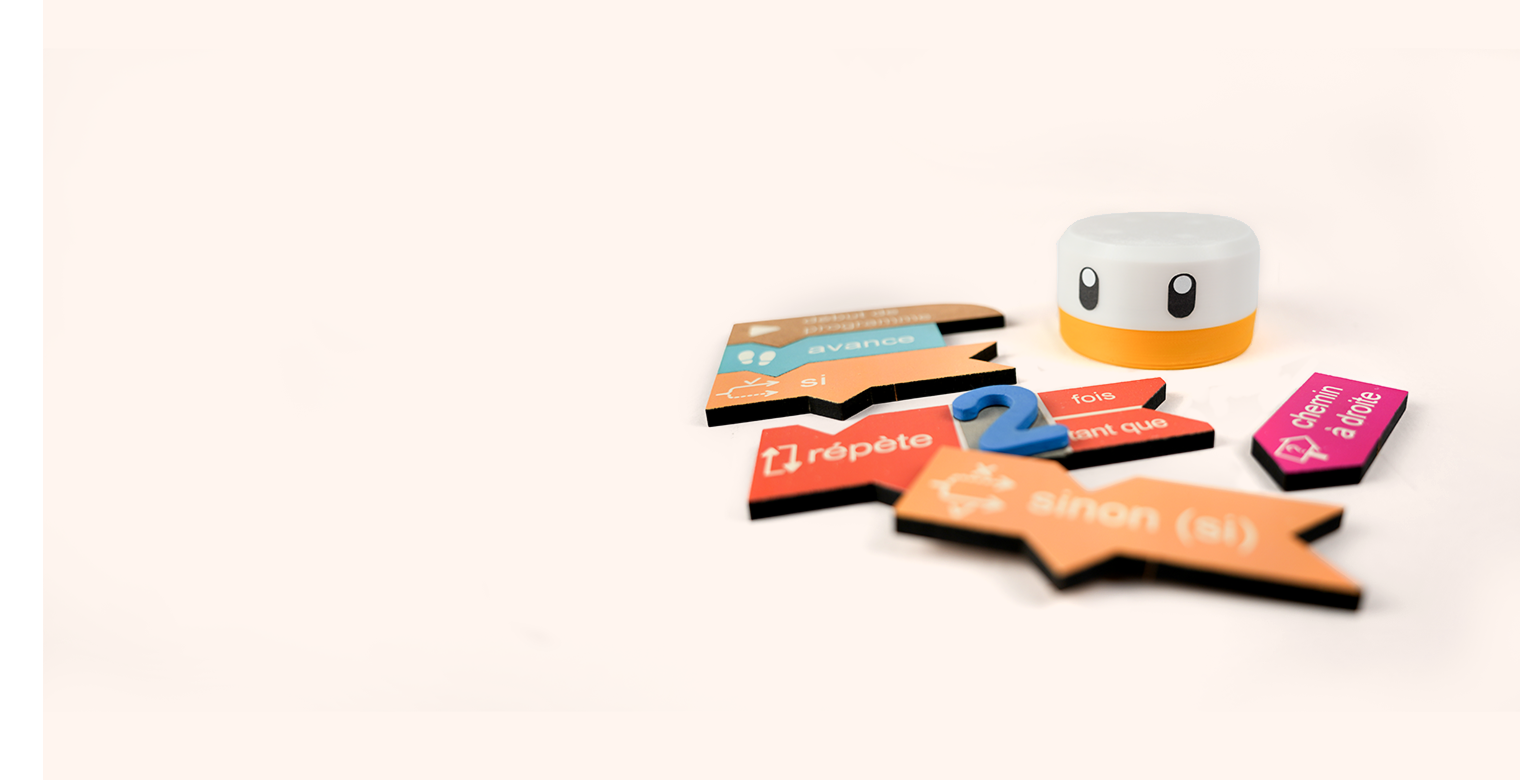
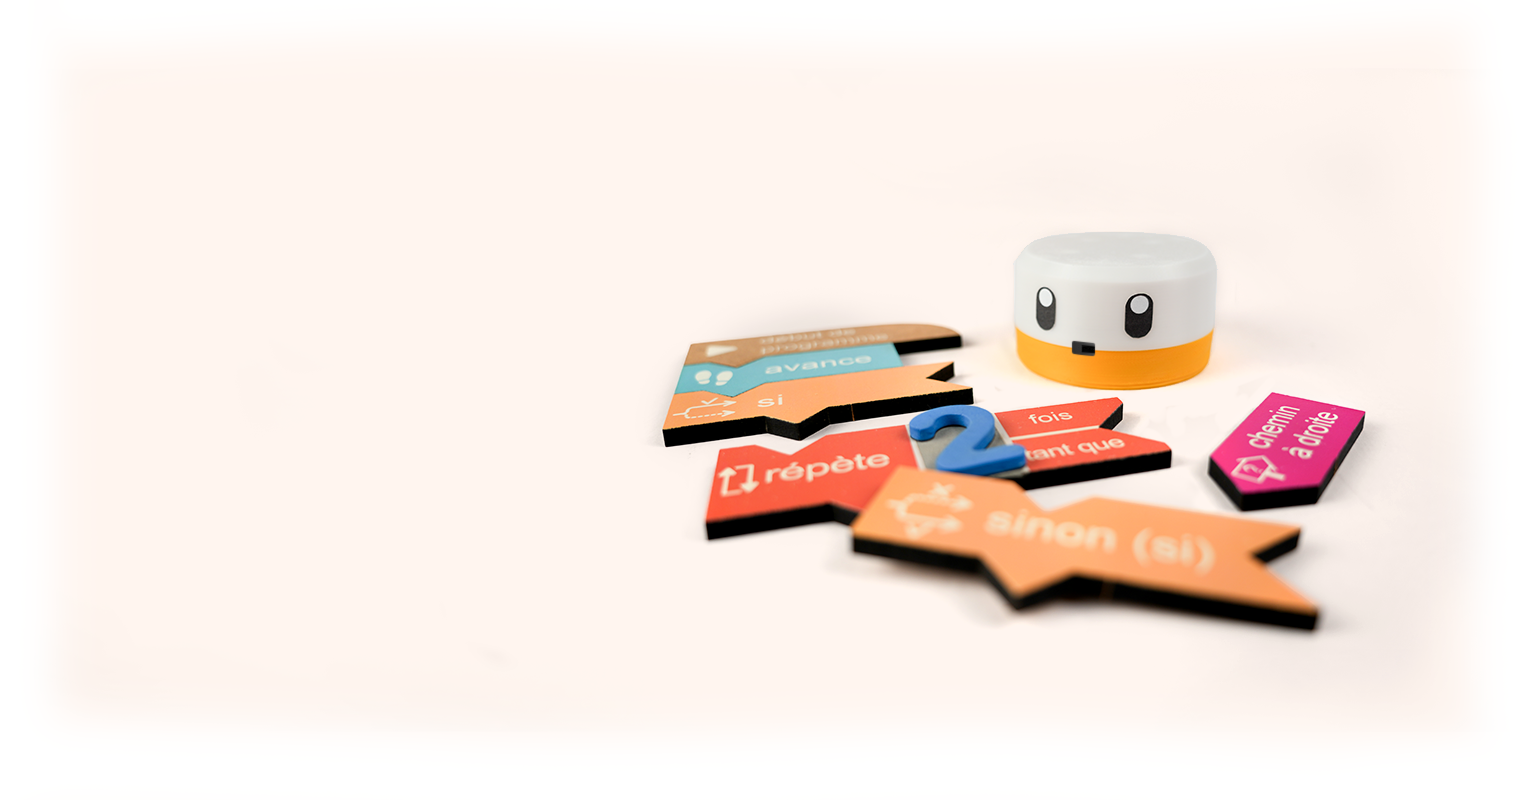
(+) fix bugs with style

Changed region(s): [[0.4329, 0.2462, 0.9586, 0.8], [0.9895, 0.6154, 1.0, 0.6769]]

diff --git a/index.html b/index.html
@@ -89,8 +89,7 @@
                 <h1>Le kit idéal pour <br>apprendre la <span class="highlight">programmation...</span> <br>sans écrans !</h1>
             </div>
             <div class="hero-image">
-                <img src="assets/landing.png" alt="Kit éducatif Wood2Bot avec robot et blocs de programmation en bois">
-            </div>
+        <img src="assets/landing-mobile.png" alt="Kit éducatif Wood2Bot avec robot et blocs de programmation en bois">
         </section>
 
         <section class="partners container">

diff --git a/style.css b/style.css
@@ -271,6 +271,17 @@ a {
 
 /* --- Responsive Mobile --- */
 @media (max-width: 768px) {
+    .steps {
+        flex-direction: column;
+        gap: 40px;
+    }
+
+    .step-image-box {
+        max-width: 250px;
+        margin-left: auto;
+        margin-right: auto;
+    }
+
     .feature, .feature-reverse {
         flex-direction: column;
         text-align: center;
